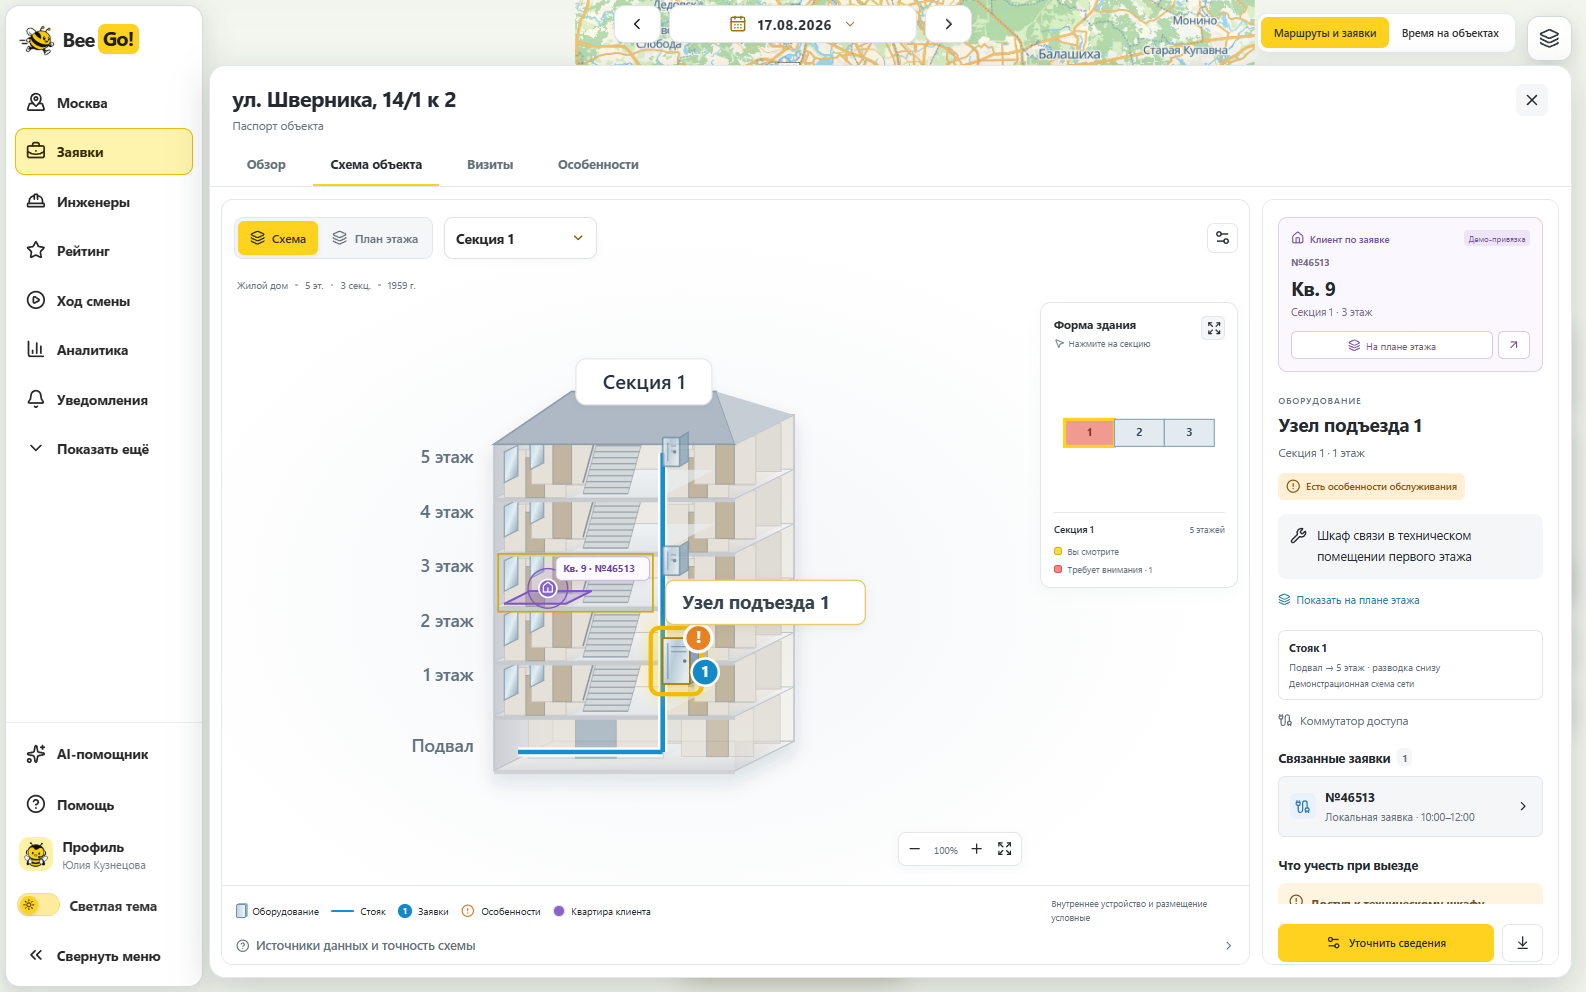
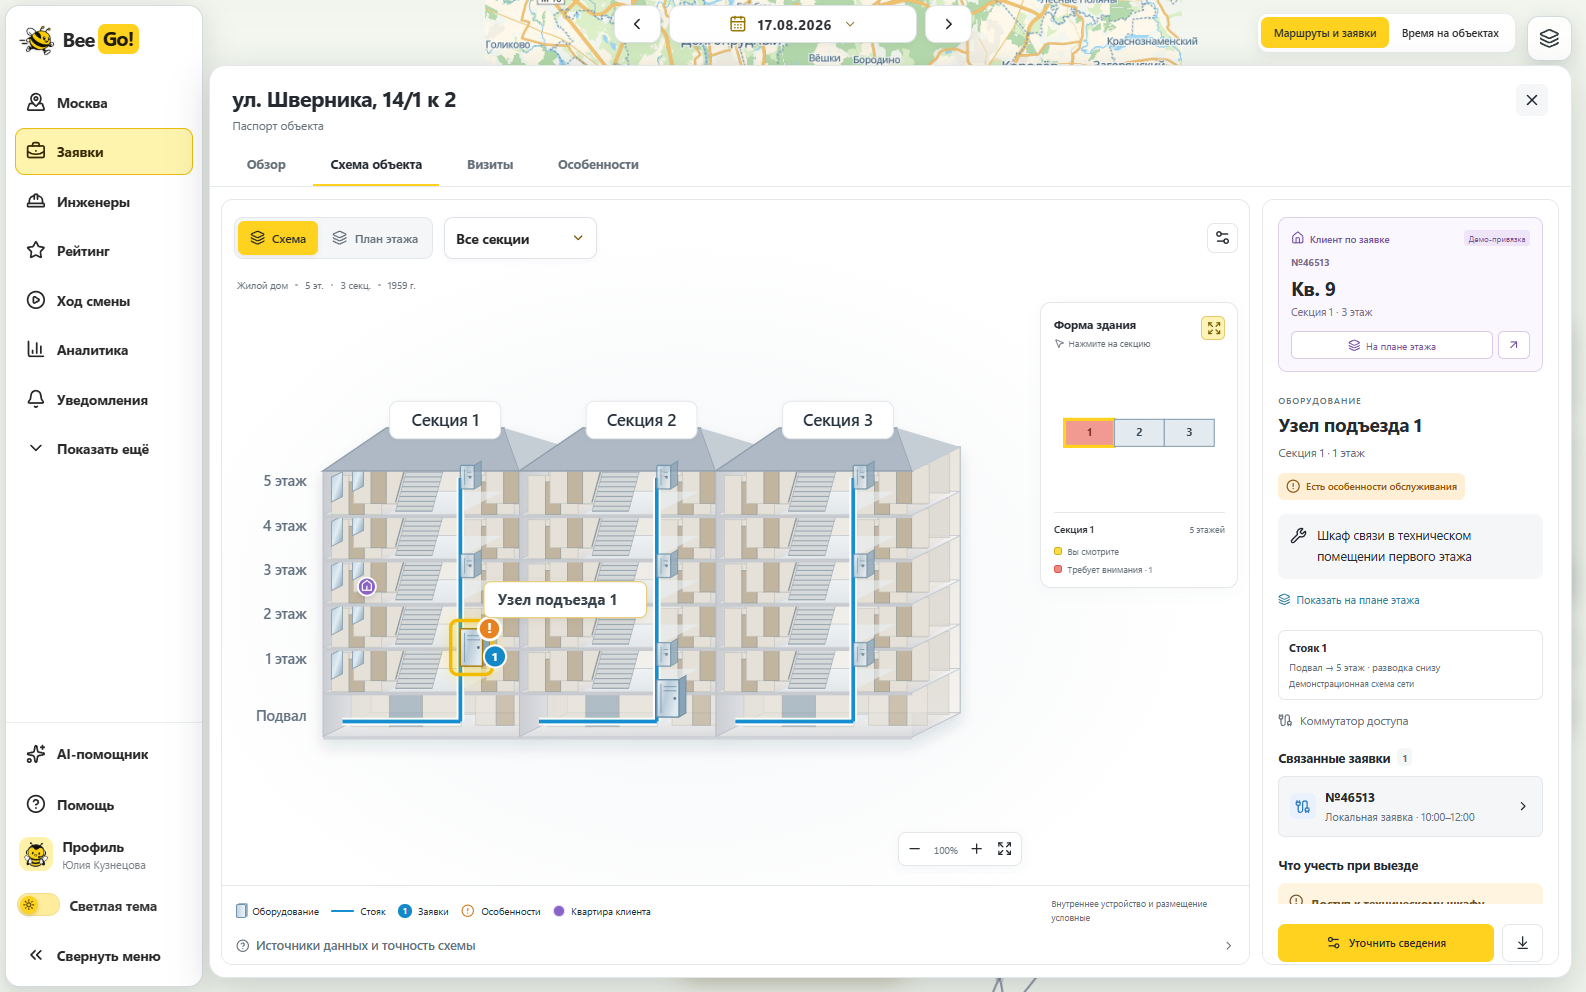
fix: open client floor plan from compact cutaway marker

diff --git a/site/src/BuildingCustomerMarkers.jsx b/site/src/BuildingCustomerMarkers.jsx
@@ -3,13 +3,13 @@ import { sectionPlanPoint } from './buildingGeometry.js';
 
 const points = values => values.map(point => point.map(value => value.toFixed(2)).join(',')).join(' ');
 
-/** Same customer-space polygon in the floor drawing and the architectural cutaway. */
+/** A compact locator in the cutaway; the room polygon appears only on the floor plan. */
 export function BuildingCustomerMarkers({ customers, selectedOrderId, onSelect, scene, floor, sectionId = 'all', scale = 1, bounds = scene?.viewBox }) {
   const visible = customers.filter(customer => customer.known && (sectionId === 'all' || customer.sectionId === sectionId) && (scene || customer.floor === floor));
   return <g className='building-customer-markers'>{visible.map(customer => {
     const { section, space } = customer;
     const p = ([x, z]) => scene ? scene.project(section.x + x, customer.floor - .95, section.z + z, section) : sectionPlanPoint(section, x, z);
-    const polygon = space.polygon.map(p);
+    const polygon = scene ? null : space.polygon.map(p);
     const center = space.polygon.reduce(([x, z], point) => [x + point[0] / space.polygon.length, z + point[1] / space.polygon.length], [0, 0]);
     const anchor = p(center), selected = customer.orderId === selectedOrderId;
     const unit = 1 / scale, markerY = anchor[1] - (scene ? 10 : 0) * unit;
@@ -20,14 +20,14 @@ export function BuildingCustomerMarkers({ customers, selectedOrderId, onSelect, 
     const captionY = bounds ? Math.max(bounds[1] + 16 * unit, markerY - 22 * unit) - markerY : -22 * unit;
     const markerSize = 10 * unit;
     return <g key={customer.orderId} className={`building-customer-marker ${selected ? 'is-selected' : ''}`} data-customer-order={customer.orderId} role='button' tabIndex='0' aria-label={`Квартира клиента: ${customer.label}, ${section.label}, ${customer.floor} этаж, заявка ${customerOrderNumber(customer.order)}${customer.source === 'synthetic' ? ', демонстрационная привязка' : ''}`} aria-pressed={selected} onClick={() => onSelect(customer.orderId)} onKeyDown={event => { if (['Enter', ' '].includes(event.key)) { event.preventDefault(); onSelect(customer.orderId); } }}>
-      <polygon className='building-customer-room' points={points(polygon)} strokeWidth={selected ? '2.3' : '1.5'} vectorEffect='non-scaling-stroke'/>
+      {polygon ? <polygon className='building-customer-room' points={points(polygon)} strokeWidth={selected ? '2.3' : '1.5'} vectorEffect='non-scaling-stroke'/> : null}
       <g transform={`translate(${anchor[0]},${markerY})`}>
         <circle className='building-customer-hit' r={22 * unit}/>
         <circle className='building-customer-pin' r={markerSize} strokeWidth='2' vectorEffect='non-scaling-stroke'/>
         <path d={`M ${-5 * unit} ${1 * unit} v ${-4 * unit} l ${5 * unit} ${-4 * unit} l ${5 * unit} ${4 * unit} v ${7 * unit} h ${-10 * unit} v ${-3 * unit} M 0 ${4 * unit} v ${-5 * unit}`} fill='none' stroke='#fff' strokeWidth='1.3' vectorEffect='non-scaling-stroke' strokeLinejoin='round'/>
-        {selected ? <g className='building-customer-caption' transform={`translate(${captionX},${captionY})`}><rect x={-5 * unit} y={-13 * unit} width={captionWidth} height={26 * unit} rx={6 * unit}/><text x={3 * unit} y={4 * unit} style={{ fontSize: 11 * unit }}>{caption}</text></g> : null}
+        {selected && !scene ? <g className='building-customer-caption' transform={`translate(${captionX},${captionY})`}><rect x={-5 * unit} y={-13 * unit} width={captionWidth} height={26 * unit} rx={6 * unit}/><text x={3 * unit} y={4 * unit} style={{ fontSize: 11 * unit }}>{caption}</text></g> : null}
       </g>
-      <title>{fullCaption} · {customer.source === 'synthetic' ? 'Демонстрационная привязка квартиры' : 'Расположение по данным заявки'}</title>
+      <title>{fullCaption} · {customer.source === 'synthetic' ? 'Демонстрационная привязка квартиры' : 'Расположение по данным заявки'}{scene ? ' · Открыть план этажа' : ''}</title>
     </g>;
   })}</g>;
 }

diff --git a/site/src/BuildingWorkspace.jsx b/site/src/BuildingWorkspace.jsx
@@ -302,7 +302,7 @@ export function BuildingWorkspace({ data, date, orders = [], initialOrderId, act
       <div className={`building-stage ${view === 'floor' ? 'is-floor-view' : ''}`} data-building-stage>
         <div className='building-viewport'>
           <div className='building-canvas-scroll' ref={canvasRef}>
-            {view === 'scheme' ? <BuildingCutaway model={model} assets={assets} selectedId={selected?.id} onSelect={id => { setSelectedId(id); setEditing(false); }} sectionId={activeSectionId} attentionIds={attentionIds} requestCounts={requestCounts} zoom={zoom} customers={customers} selectedCustomerId={selectedCustomer?.orderId} onCustomer={selectCustomer}/> : <BuildingFloorPlan model={model} assets={assets} selectedId={selected?.id} onSelect={id => setSelectedId(id)} floor={activeFloor} sectionId={activeSectionId} zoom={zoom} attentionIds={attentionIds} customers={customers} selectedCustomerId={selectedCustomer?.orderId} onCustomer={selectCustomer}/>}
+            {view === 'scheme' ? <BuildingCutaway model={model} assets={assets} selectedId={selected?.id} onSelect={id => { setSelectedId(id); setEditing(false); }} sectionId={activeSectionId} attentionIds={attentionIds} requestCounts={requestCounts} zoom={zoom} customers={customers} selectedCustomerId={selectedCustomer?.orderId} onCustomer={id => { selectCustomer(id); setView('floor'); }}/> : <BuildingFloorPlan model={model} assets={assets} selectedId={selected?.id} onSelect={id => setSelectedId(id)} floor={activeFloor} sectionId={activeSectionId} zoom={zoom} attentionIds={attentionIds} customers={customers} selectedCustomerId={selectedCustomer?.orderId} onCustomer={selectCustomer}/>}
           </div>
           {view === 'floor' ? <div className='building-floor-key'><span><i className='room'/>Помещения</span><span><i className='common'/>Общие зоны</span><span><i className='technical'/>Технические</span></div> : null}
           <div className='building-zoom'><button type='button' className='building-icon-button' disabled={zoom <= .5} onClick={() => setZoom(value => Math.max(.5, value - .25))} aria-label='Уменьшить схему'><Minus size={17}/></button><span>{Math.round(zoom * 100)}%</span><button type='button' className='building-icon-button' disabled={zoom >= 4} onClick={() => setZoom(value => Math.min(4, value + .25))} aria-label='Увеличить схему'><Plus size={17}/></button><button type='button' className='building-icon-button' onClick={() => { setZoom(1); canvasRef.current?.scrollTo(0, 0); }} aria-label='Показать всю схему'><Expand size={17}/></button></div>

diff --git a/docs/object-building-model.md b/docs/object-building-model.md
@@ -94,7 +94,7 @@ API: `GET /api/buildings/:objectId`, `PUT /api/buildings/:objectId` (`model`, `e
 
 Левой кнопкой мыши можно передвигать увеличенный разрез и план этажа по двум осям; колёсико меняет масштаб относительно курсора. Начальное открытие по-прежнему вмещает все секции. Перемещение начинается после порога 5 px, перехватывает указатель и не выбирает оборудование при отпускании кнопки. Обычный щелчок и клавиатурный выбор сохраняются.
 
-Квартира клиента выделена фиолетовым полигоном помещения и значком дома. Карточка показывает номер исходной заявки, квартиру, секцию и этаж. «На плане этажа» открывает ту же квартиру на её уровне; отдельная кнопка возвращает к исходной заявке. При нескольких заявках можно выбрать нужного клиента. При открытии паспорта из заявки используется её ID.
+На разрезе квартира клиента обозначена только компактной фиолетовой точкой со значком дома. Нажатие мышью или Enter/Пробел сразу открывает нужный план этажа; полигон квартиры и подпись показываются только на этом плане. Карточка показывает номер исходной заявки, квартиру, секцию и этаж. «На плане этажа» открывает ту же квартиру на её уровне; отдельная кнопка возвращает к исходной заявке. При нескольких заявках можно выбрать нужного клиента. При открытии паспорта из заявки используется её ID.
 
 Демо-привязки создаются детерминированно только для примеров подключений, локальных заявок и дозаказов явно синтетического реестра `complexity-v2`, через уже связанный с заявкой узел. Это новые синтетические данные, а не сведения OSM или реальные квартиры абонентов; в карточке видна пометка «Демо-привязка». Они сохраняются в модели отдельно от операционных заявок. Для нового/реального обращения без привязки показывается «Расположение квартиры не указано», без случайной отметки.
 

diff --git a/site/AGENTS.md b/site/AGENTS.md
@@ -23,7 +23,7 @@ Build app UI in `src/`. Keep `.openai/hosting.json`, `worker/index.js`, `scripts
 
 ## Durable product direction
 
-- Building drawings support left-button drag panning in cutaway and floor views, with capture after a movement threshold and no equipment selection at drag end. Client apartments use one explicit section/floor/space binding in both drawings, a separate purple marker and an exact order link. Seed bindings only for explicitly synthetic registry examples; unknown/new real orders never acquire invented apartments. Keep the source visible, allow versioned operator corrections and preserve explicit imported order locations.
+- Building drawings support left-button drag panning in cutaway and floor views, with capture after a movement threshold and no equipment selection at drag end. Client apartments use one explicit section/floor/space binding in both drawings and an exact order link. In the cutaway show only the compact client point (no room fill or persistent caption); clicking it or pressing Enter/Space opens its floor plan. Show the purple room polygon and caption only on the floor plan. Seed bindings only for explicitly synthetic registry examples; unknown/new real orders never acquire invented apartments. Keep the source visible, allow versioned operator corrections and preserve explicit imported order locations.
 
 - Building passports open with every section fitted in view, including long buildings. Use only «Схема» and «План этажа» view buttons; the exterior contour belongs in the larger clickable «Форма здания» navigator. Remove the persistent «OSM + синтетическая модель» chip while retaining source details under provenance. Support wheel zoom toward the pointer. Keep the architectural floor drawing legible with scale-aware text and explicit letter-spacing reset. Navigator current section is yellow; all explicitly affected sections pulse red, retaining a yellow ring when current. Recorded service issues are not live alarms; ignore generic operation policies and resolved/future/positive records. Respect reduced motion.
 
